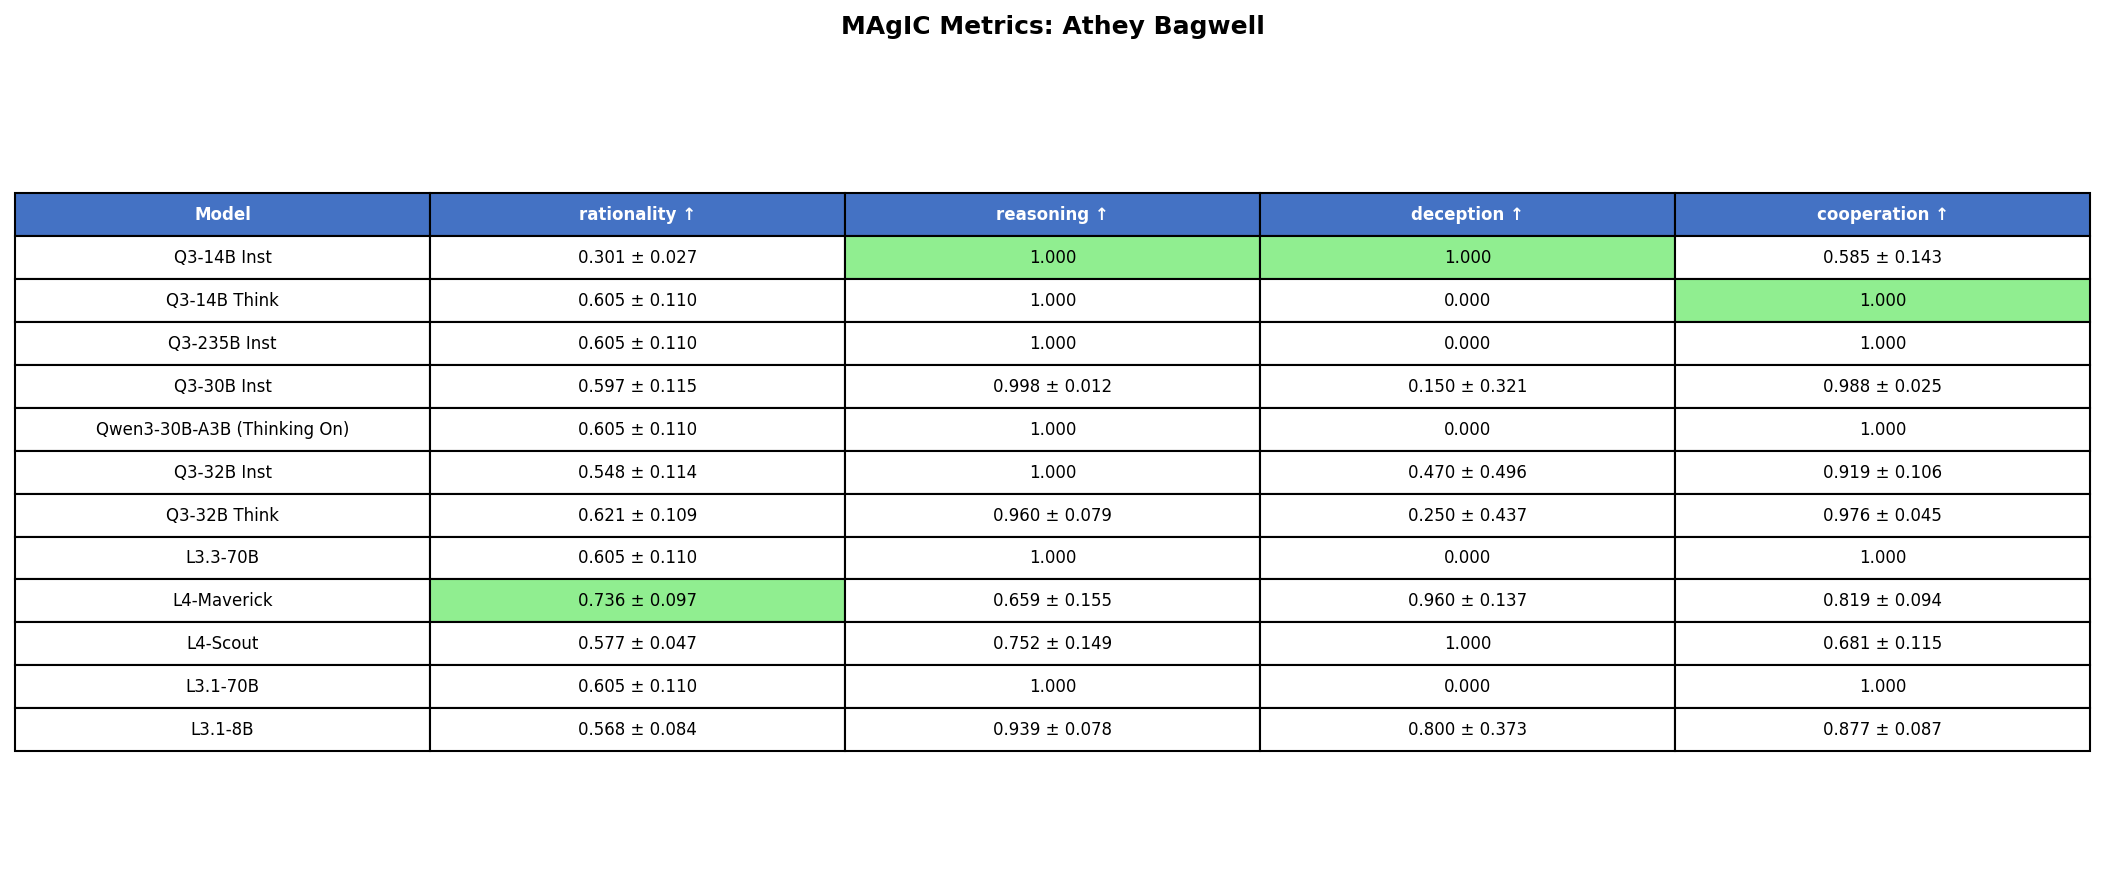
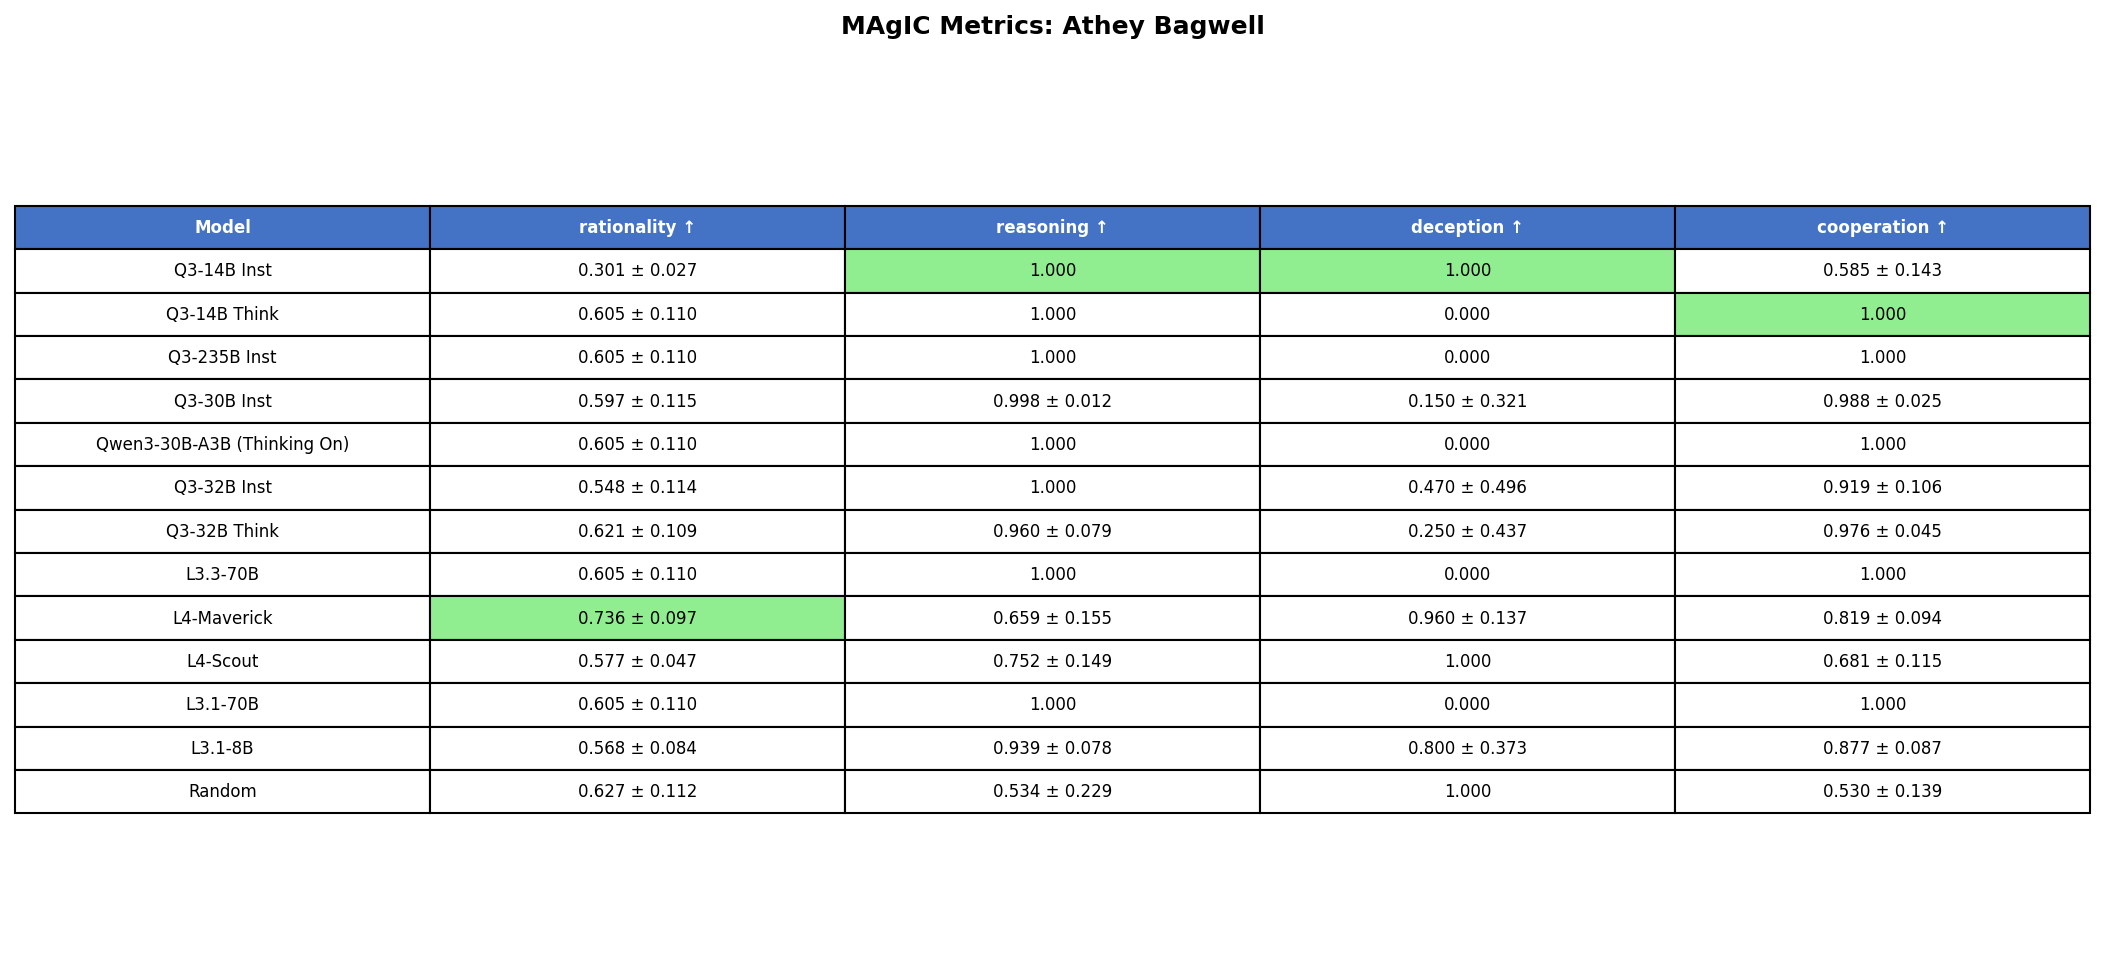
gtrfed

Changed region(s): [[0.0, 0.2138, 1.0, 0.8552], [0.4014, 0.0, 0.5867, 0.0611]]

diff --git a/analysis.py b/analysis.py
@@ -5,6 +5,27 @@ MAgIC Analysis Pipeline - Publication Version
 Usage:
     python analysis.py
 
+RANDOM AGENT INCLUSION STRATEGY:
+--------------------------------
+RQ1 (Performance Tables): INCLUDE random agent as baseline
+    - Shows LLMs beat random → validates strategic capability
+    - Tables: T_perf_win_rate, T_perf_avg_profit, T_perf_game_specific
+
+RQ2 (Behavioral Profiles): INCLUDE random agent for comparison
+    - Random should cluster separately from strategic models
+    - Tables: T_magic_{game}
+    - Figures: F_similarity_{game}, F_similarity_3v5
+
+RQ3 (Regressions): EXCLUDE random agent
+    - Random has no meaningful features for regression
+    - Tables: T_mlr_*, T5a/b_magic_to_perf, T6_pca_variance
+    - Figures: F_pca_scree
+
+RQ4 (Thinking Analysis): EXCLUDE random agent
+    - Random is not a thinking model, would add noise
+    - Tables: T8_thinking_*
+    - Figures: F5_think_vs_inst
+
 FEATURE MODELING:
 -----------------
 Model features used in MLR regression (Features → Performance):
@@ -129,8 +150,17 @@ class DataLoader:
         self.model_configs = {}
         self.display_names = {}
         self.family_encoder = None
+        
+        # Add display name for random agent
+        self.display_names['random_agent'] = 'Random'
     
-    def load(self) -> Tuple[pd.DataFrame, pd.DataFrame]:
+    def load(self, include_random: bool = False) -> Tuple[pd.DataFrame, pd.DataFrame]:
+        """Load performance and MAgIC dataframes.
+        
+        Args:
+            include_random: If True, include random_agent in results (for RQ1/RQ2).
+                           If False, exclude random_agent (for RQ3/RQ4 regressions).
+        """
         perf_path = self.analysis_dir / "performance_metrics.csv"
         magic_path = self.analysis_dir / "magic_behavioral_metrics.csv"
         
@@ -140,8 +170,8 @@ class DataLoader:
         perf_df = pd.read_csv(perf_path)
         magic_df = pd.read_csv(magic_path)
         
-        perf_df = self._filter_models(perf_df)
-        magic_df = self._filter_models(magic_df)
+        perf_df = self._filter_models(perf_df, include_random=include_random)
+        magic_df = self._filter_models(magic_df, include_random=include_random)
         
         if self.config_path and self.config_path.exists():
             with open(self.config_path) as f:
@@ -150,7 +180,8 @@ class DataLoader:
                 for model_name, cfg in self.model_configs.items():
                     self.display_names[model_name] = cfg.get('display_name', model_name)
         
-        logger.info(f"Loaded {len(perf_df)} performance rows, {len(magic_df)} MAgIC rows")
+        random_status = "included" if include_random else "excluded"
+        logger.info(f"Loaded {len(perf_df)} performance rows, {len(magic_df)} MAgIC rows (random agent {random_status})")
         return perf_df, magic_df
     
     def load_token_data(self) -> pd.DataFrame:
@@ -240,10 +271,23 @@ class DataLoader:
             return self.display_names[model]
         return str(model).split('/')[-1]
     
-    def _filter_models(self, df: pd.DataFrame) -> pd.DataFrame:
+    def _filter_models(self, df: pd.DataFrame, include_random: bool = False) -> pd.DataFrame:
+        """Filter models from dataframe.
+        
+        Args:
+            df: Input dataframe with 'model' column
+            include_random: If True, keep random_agent (for RQ1/RQ2 baseline comparison).
+                           Always excludes defender (gemma).
+        """
         def is_excluded(model: str) -> bool:
             m = str(model).lower()
-            return 'random' in m or 'gemma' in m
+            # Always exclude defender (gemma)
+            if 'gemma' in m:
+                return True
+            # Conditionally exclude random agent
+            if not include_random and 'random' in m:
+                return True
+            return False
         return df[~df['model'].apply(is_excluded)].copy()
     
     def extract_model_features(self, models: List[str]) -> pd.DataFrame:
@@ -305,10 +349,23 @@ class DataLoader:
 # =============================================================================
 
 class TableGenerator:
-    def __init__(self, perf_df: pd.DataFrame, magic_df: pd.DataFrame,
+    """Generate publication tables.
+    
+    RQ1 (Performance) and RQ2 (Behavioral) tables INCLUDE random agent as baseline.
+    RQ3 (Regressions) and RQ4 (Thinking) tables EXCLUDE random agent.
+    """
+    
+    def __init__(self, perf_df_with_random: pd.DataFrame, magic_df_with_random: pd.DataFrame,
+                 perf_df_no_random: pd.DataFrame, magic_df_no_random: pd.DataFrame,
                  features_df: pd.DataFrame, output_dir: Path, loader: DataLoader):
-        self.perf_df = perf_df
-        self.magic_df = magic_df
+        # Data WITH random agent (for RQ1 performance tables, RQ2 behavioral tables)
+        self.perf_df = perf_df_with_random
+        self.magic_df = magic_df_with_random
+        
+        # Data WITHOUT random agent (for RQ3 regressions, RQ4 thinking analysis)
+        self.perf_df_no_random = perf_df_no_random
+        self.magic_df_no_random = magic_df_no_random
+        
         self.features_df = features_df
         self.output_dir = output_dir
         self.loader = loader
@@ -470,7 +527,11 @@ class TableGenerator:
         return pd.DataFrame(records)
     
     def performance_win_rate_table(self):
-        logger.info("Generating Win Rate table...")
+        """Win rate table for RQ1.
+        
+        Note: Uses perf_df which INCLUDES random agent as performance baseline.
+        """
+        logger.info("Generating Win Rate table (includes random agent)...")
         direction = METRIC_DIRECTION.get('win_rate', '↑')
         table_df = self._build_metric_table_3v5(self.perf_df, 'win_rate')
         
@@ -490,7 +551,11 @@ class TableGenerator:
             pval_df.to_csv(self.output_dir / "T_perf_win_rate_pvalues.csv", index=False)
     
     def performance_avg_profit_table(self):
-        logger.info("Generating Average Profit table...")
+        """Average profit table for RQ1.
+        
+        Note: Uses perf_df which INCLUDES random agent as performance baseline.
+        """
+        logger.info("Generating Average Profit table (includes random agent)...")
         direction = METRIC_DIRECTION.get('average_profit', '↑')
         table_df = self._build_metric_table_3v5(self.perf_df, 'average_profit')
         
@@ -510,8 +575,11 @@ class TableGenerator:
             pval_df.to_csv(self.output_dir / "T_perf_avg_profit_pvalues.csv", index=False)
     
     def performance_game_specific_table(self):
-        """Table: Game-specific metrics WITH 3P vs 5P."""
-        logger.info("Generating Game-Specific metrics table (3P vs 5P)...")
+        """Game-specific metrics table for RQ1 (3P vs 5P).
+        
+        Note: Uses perf_df which INCLUDES random agent as performance baseline.
+        """
+        logger.info("Generating Game-Specific metrics table (includes random agent)...")
         
         records = []
         for model in self.perf_df['model'].unique():
@@ -583,7 +651,12 @@ class TableGenerator:
                                    "Performance: 3P vs 5P Statistical Comparison", bold_best=False)
     
     def magic_per_game_table(self, game: str):
-        logger.info(f"Generating MAgIC table for {game}...")
+        """MAgIC behavioral metrics table for RQ2.
+        
+        Note: Uses magic_df which INCLUDES random agent as behavioral baseline.
+        Random agent should show distinctive (often lower) behavioral scores.
+        """
+        logger.info(f"Generating MAgIC table for {game} (includes random agent)...")
         
         game_df = self.magic_df[self.magic_df['game'] == game]
         if game_df.empty:
@@ -644,13 +717,16 @@ class TableGenerator:
         return remaining, dropped
     
     def mlr_features_to_performance(self):
-        """MLR: Model Features → Performance Metrics."""
+        """MLR: Model Features → Performance Metrics.
+        
+        Note: Uses perf_df_no_random to exclude random agent from regressions.
+        """
         if not STATSMODELS_AVAILABLE:
             return
         
-        logger.info("Generating MLR: Features → Performance...")
+        logger.info("Generating MLR: Features → Performance (excluding random agent)...")
         
-        perf_pivot = self.perf_df.pivot_table(
+        perf_pivot = self.perf_df_no_random.pivot_table(
             index=['game', 'model', 'condition'], columns='metric', values='mean'
         ).reset_index()
         
@@ -709,17 +785,20 @@ class TableGenerator:
             logger.info(f"  Saved MLR Features→Perf: {len(df_out)} rows, {len(sig_df)} significant")
     
     def mlr_magic_to_performance(self):
-        """MLR: MAgIC → Performance (T5a, T5b)."""
+        """MLR: MAgIC → Performance (T5a, T5b).
+        
+        Note: Uses no_random dataframes to exclude random agent from regressions.
+        """
         if not STATSMODELS_AVAILABLE:
             return
         
-        logger.info("Generating T5: MAgIC → Performance...")
+        logger.info("Generating T5: MAgIC → Performance (excluding random agent)...")
         
-        magic_pivot = self.magic_df.pivot_table(
+        magic_pivot = self.magic_df_no_random.pivot_table(
             index=['game', 'model', 'condition'], columns='metric', values='mean'
         ).reset_index()
         
-        perf_pivot = self.perf_df.pivot_table(
+        perf_pivot = self.perf_df_no_random.pivot_table(
             index=['game', 'model', 'condition'], columns='metric', values='mean'
         ).reset_index()
         
@@ -791,14 +870,18 @@ class TableGenerator:
                                    "T5b: MAgIC → Performance Model Summary", bold_best=False)
     
     def pca_variance_table(self):
+        """PCA Variance analysis for RQ3 dimensionality validation.
+        
+        Note: Uses magic_df_no_random to exclude random agent.
+        """
         if not SKLEARN_AVAILABLE:
             return
         
-        logger.info("Generating T6: PCA Variance...")
+        logger.info("Generating T6: PCA Variance (excluding random agent)...")
         
         results = []
         for game, config in GAME_CONFIGS.items():
-            game_df = self.magic_df[self.magic_df['game'] == game]
+            game_df = self.magic_df_no_random[self.magic_df_no_random['game'] == game]
             if game_df.empty:
                 continue
             
@@ -828,12 +911,13 @@ class TableGenerator:
     def cost_benefit_table(self, token_df: pd.DataFrame):
         """Table 8: Think vs Inst comparison with mean±std and p-values.
         
+        Note: Uses perf_df_no_random to exclude random agent from RQ4 analysis.
         Output format: mean ± std for all metrics, t-test p-values for group comparisons.
         """
-        logger.info("Generating T8: Think vs Inst Comparison (mean±std, p-values)...")
+        logger.info("Generating T8: Think vs Inst Comparison (excluding random agent)...")
         
-        # Get profit data
-        profit_df = self.perf_df[self.perf_df['metric'] == 'average_profit'].copy()
+        # Get profit data (excluding random agent)
+        profit_df = self.perf_df_no_random[self.perf_df_no_random['metric'] == 'average_profit'].copy()
         profit_df['is_thinking'] = profit_df['model'].apply(self.loader.get_thinking_status)
         profit_df['mode'] = profit_df['is_thinking'].map({True: 'Think', False: 'Inst'})
         profit_df['display_name'] = profit_df['model'].apply(self._display_name)
@@ -930,10 +1014,23 @@ class TableGenerator:
 # =============================================================================
 
 class FigureGenerator:
-    def __init__(self, perf_df: pd.DataFrame, magic_df: pd.DataFrame,
+    """Generate publication figures.
+    
+    RQ2 similarity figures INCLUDE random agent as baseline for comparison.
+    RQ3 PCA and RQ4 thinking figures EXCLUDE random agent.
+    """
+    
+    def __init__(self, perf_df_with_random: pd.DataFrame, magic_df_with_random: pd.DataFrame,
+                 perf_df_no_random: pd.DataFrame, magic_df_no_random: pd.DataFrame,
                  features_df: pd.DataFrame, output_dir: Path, loader: DataLoader):
-        self.perf_df = perf_df
-        self.magic_df = magic_df
+        # Data WITH random agent (for RQ2 similarity figures)
+        self.perf_df = perf_df_with_random
+        self.magic_df = magic_df_with_random
+        
+        # Data WITHOUT random agent (for RQ3 PCA, RQ4 thinking figures)
+        self.perf_df_no_random = perf_df_no_random
+        self.magic_df_no_random = magic_df_no_random
+        
         self.features_df = features_df
         self.output_dir = output_dir
         self.loader = loader
@@ -960,7 +1057,12 @@ class FigureGenerator:
             self.cost_benefit_scatter(token_df)
     
     def similarity_matrix_per_game(self, game: str):
-        logger.info(f"Generating similarity matrix for {game}...")
+        """Generate behavioral similarity matrix for a game (RQ2).
+        
+        Note: Uses magic_df which INCLUDES random agent as baseline for comparison.
+        Random agent should cluster separately from strategic models.
+        """
+        logger.info(f"Generating similarity matrix for {game} (includes random agent)...")
         
         game_df = self.magic_df[self.magic_df['game'] == game].copy()
         if game_df.empty:
@@ -983,8 +1085,11 @@ class FigureGenerator:
         plt.close()
     
     def similarity_3v5_scores(self):
-        """Single similarity score per game: 3P vs 5P."""
-        logger.info("Generating 3P vs 5P similarity scores...")
+        """Single similarity score per game: 3P vs 5P (RQ2).
+        
+        Note: Uses magic_df which INCLUDES random agent for comparison.
+        """
+        logger.info("Generating 3P vs 5P similarity scores (includes random agent)...")
         
         results = []
         
@@ -1054,7 +1159,11 @@ class FigureGenerator:
         plt.close()
     
     def pca_scree_plots(self):
-        logger.info("Generating PCA scree plots...")
+        """PCA scree plots for RQ3 dimensionality validation.
+        
+        Note: Uses magic_df_no_random to exclude random agent.
+        """
+        logger.info("Generating PCA scree plots (excluding random agent)...")
         
         games = [g for g, c in GAME_CONFIGS.items() if len(c['magic_metrics']) >= 2]
         if not games:
@@ -1065,7 +1174,7 @@ class FigureGenerator:
             axes = [axes]
         
         for ax, game in zip(axes, games):
-            game_df = self.magic_df[self.magic_df['game'] == game]
+            game_df = self.magic_df_no_random[self.magic_df_no_random['game'] == game]
             pivot = game_df.pivot_table(index='model', columns='metric', values='mean').dropna()
             available = [m for m in GAME_CONFIGS[game]['magic_metrics'] if m in pivot.columns]
             
@@ -1094,11 +1203,14 @@ class FigureGenerator:
         plt.close()
     
     def cost_benefit_scatter(self, token_df: pd.DataFrame):
-        """Figure 5: Think vs Inst performance comparison with p-values."""
-        logger.info("Generating F5: Think vs Inst Comparison...")
+        """Figure 5: Think vs Inst performance comparison with p-values.
         
-        # Get profit data
-        profit_df = self.perf_df[self.perf_df['metric'] == 'average_profit'].copy()
+        Note: Uses perf_df_no_random to exclude random agent from RQ4 analysis.
+        """
+        logger.info("Generating F5: Think vs Inst Comparison (excluding random agent)...")
+        
+        # Get profit data (excluding random agent)
+        profit_df = self.perf_df_no_random[self.perf_df_no_random['metric'] == 'average_profit'].copy()
         profit_df['is_thinking'] = profit_df['model'].apply(self.loader.get_thinking_status)
         profit_df['mode'] = profit_df['is_thinking'].map({True: 'Think', False: 'Inst'})
         
@@ -1263,21 +1375,38 @@ def main():
             config_path if config_path.exists() else None,
             experiments_dir
         )
-        perf_df, magic_df = loader.load()
         
-        # Load token data for cost-benefit analysis
+        # Load data WITH random agent for RQ1 (performance) and RQ2 (behavioral profiles)
+        perf_df_with_random, magic_df_with_random = loader.load(include_random=True)
+        
+        # Load data WITHOUT random agent for RQ3 (regressions) and RQ4 (thinking analysis)
+        perf_df_no_random, magic_df_no_random = loader.load(include_random=False)
+        
+        # Load token data for cost-benefit analysis (excludes random by design)
         token_df = loader.load_token_data()
         
-        all_models = list(set(perf_df['model'].unique()) | set(magic_df['model'].unique()))
-        features_df = loader.extract_model_features(all_models)
+        # Extract features only for non-random models (for regressions)
+        all_models_no_random = list(set(perf_df_no_random['model'].unique()) | set(magic_df_no_random['model'].unique()))
+        features_df = loader.extract_model_features(all_models_no_random)
         
         logger.info("[Step 4/5] Generating tables...")
         pub_dir = analysis_dir / "publication"
-        tables = TableGenerator(perf_df, magic_df, features_df, pub_dir, loader)
+        
+        # RQ1 & RQ2 tables use data WITH random agent
+        # RQ3 & RQ4 tables use data WITHOUT random agent
+        tables = TableGenerator(
+            perf_df_with_random, magic_df_with_random,  # RQ1/RQ2: include random
+            perf_df_no_random, magic_df_no_random,      # RQ3/RQ4: exclude random
+            features_df, pub_dir, loader
+        )
         tables.generate_all(token_df)
         
         logger.info("[Step 5/5] Generating figures...")
-        figures = FigureGenerator(perf_df, magic_df, features_df, pub_dir, loader)
+        figures = FigureGenerator(
+            perf_df_with_random, magic_df_with_random,  # RQ1/RQ2: include random
+            perf_df_no_random, magic_df_no_random,      # RQ3/RQ4: exclude random  
+            features_df, pub_dir, loader
+        )
         figures.generate_all(token_df)
         
         logger.info("=" * 80)
